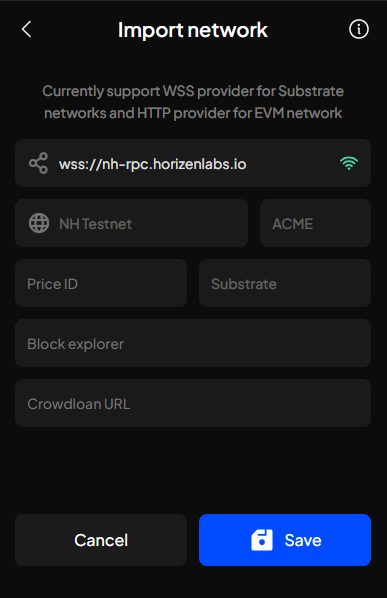
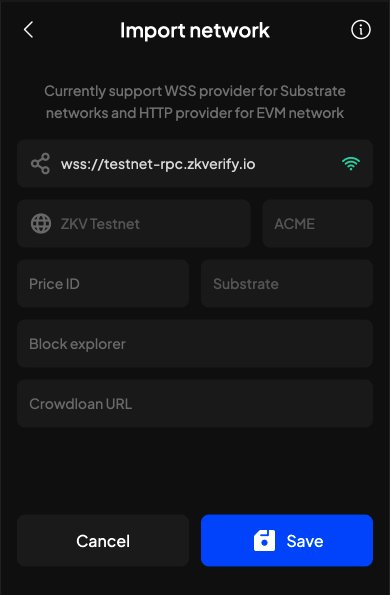
Update Connect a Wallet section (#66)

diff --git a/docs/tutorials/02-connect-a-wallet.md b/docs/tutorials/02-connect-a-wallet.md
@@ -36,10 +36,7 @@ Follow the instructions below to set up your wallet with these variables and sta
 2. Select Network & Tokens.
 3. Choose Manage Networks.
 4. Find and click on Polkadot.
-5. Click on Add Network.
-6. Insert the RPC URL provided above.
-7. Add the zkVerify Testnet Block Explorer link from above.
-8. Click on Add Network.
+5. Search for "zkVerify Testnet" and activate using the toggle.
 
 ![](./img/talisman-add-network.png)
 
